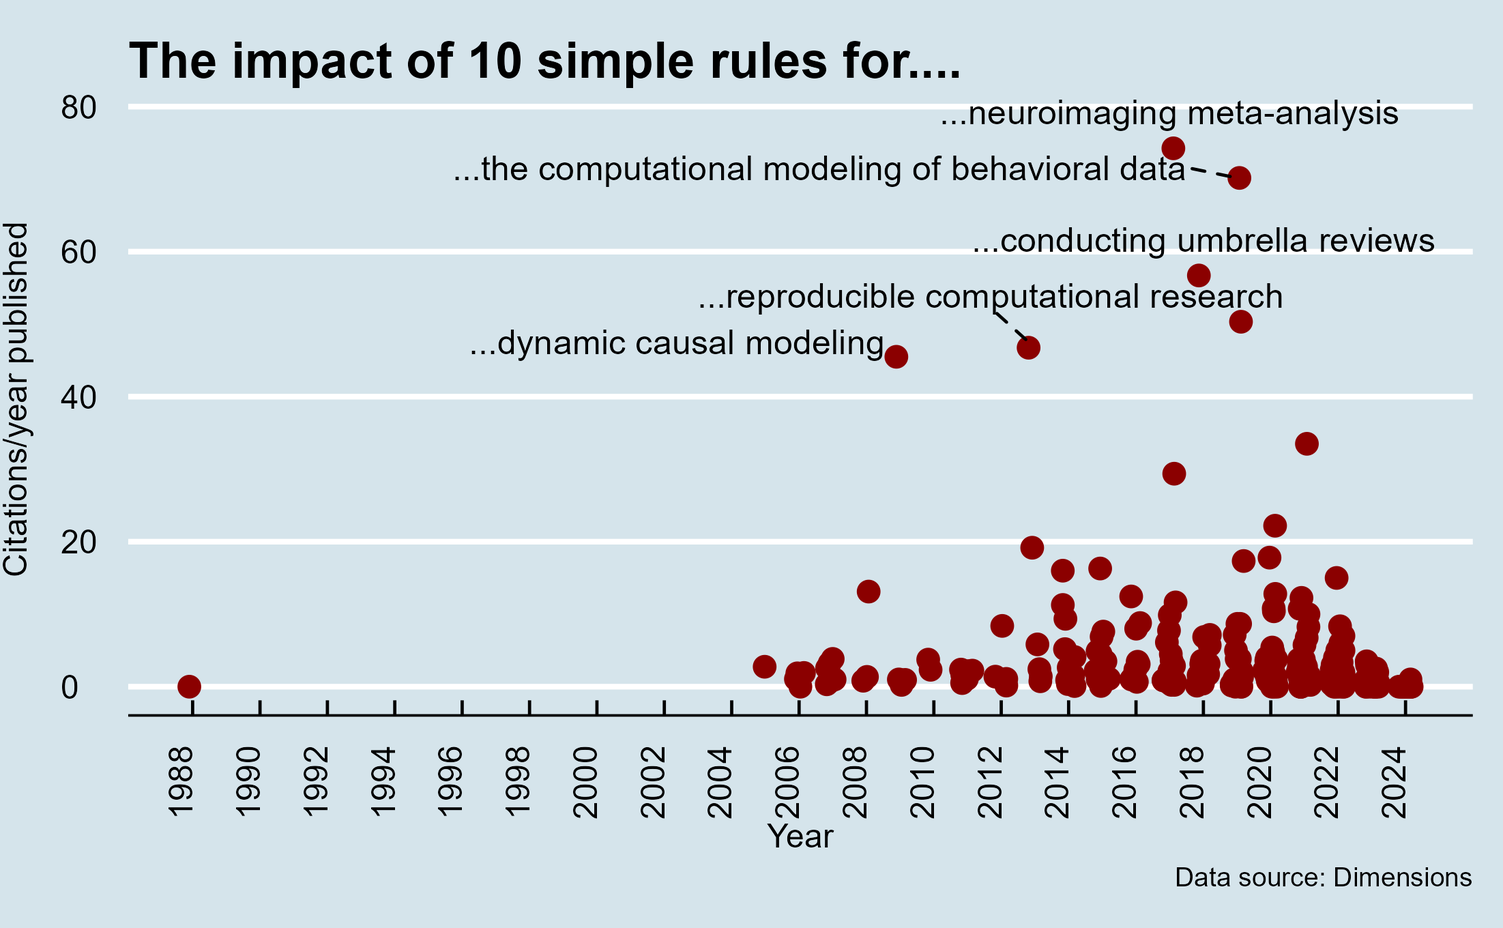
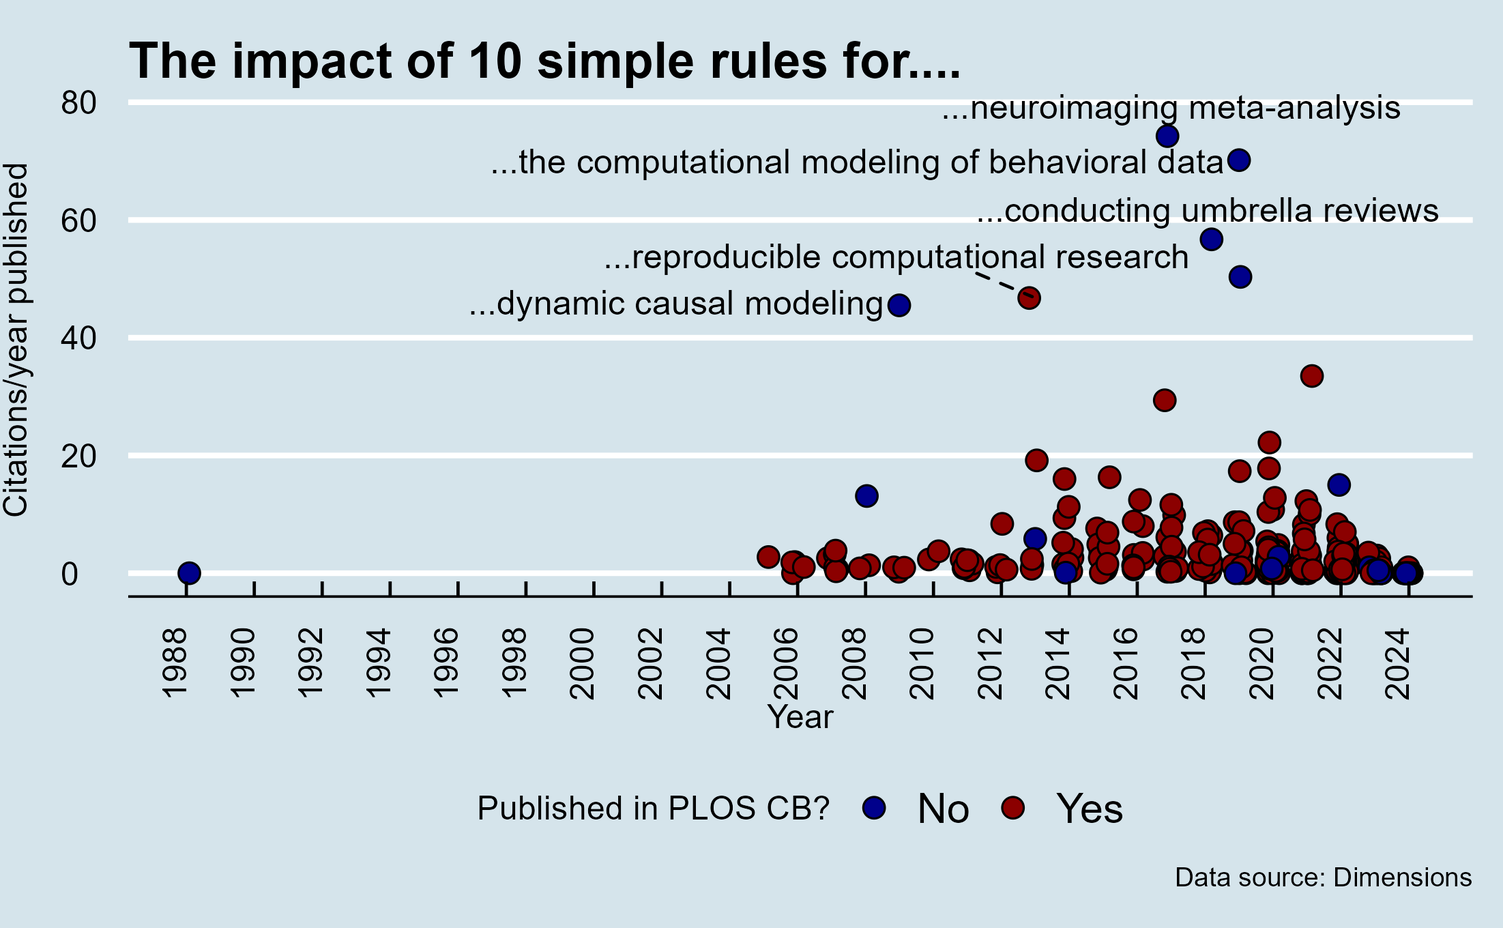
draft update

diff --git a/docs/posts/02_09_24/index.html b/docs/posts/02_09_24/index.html
@@ -7,7 +7,7 @@
 <meta name="viewport" content="width=device-width, initial-scale=1.0, user-scalable=yes">
 
 <meta name="author" content="Pablo Gómez Barreiro">
-<meta name="dcterms.date" content="2024-09-03">
+<meta name="dcterms.date" content="2024-09-02">
 
 <title>Pablo Gómez Barreiro - The golden era of Ten simple rules articles</title>
 <style>
@@ -207,7 +207,7 @@ pre > code.sourceCode > span > a:first-child::before { text-decoration: underlin
     <div>
     <div class="quarto-title-meta-heading">Published</div>
     <div class="quarto-title-meta-contents">
-      <p class="date">September 3, 2024</p>
+      <p class="date">September 2, 2024</p>
     </div>
   </div>
   
@@ -242,7 +242,7 @@ pre > code.sourceCode > span > a:first-child::before { text-decoration: underlin
 <div class="no-row-height column-margin column-container"><div class="">
 <div class="quarto-figure quarto-figure-center">
 <figure class="figure">
-<p><img src="wfrr.jpg" class="img-fluid figure-img"></p>
+<p><img src="wfrr.jpg" class="img-fluid figure-img" alt="Screenshot from the 1988 movie Who framed roger rabbit?"></p>
 <figcaption class="figure-caption">For temporal context, the movie <em>Who framed roger rabbit?</em> was also published in 1988</figcaption>
 </figure>
 </div>
@@ -267,7 +267,7 @@ pre > code.sourceCode > span > a:first-child::before { text-decoration: underlin
 <div class="no-row-height column-margin column-container"><div class="">
 <div class="quarto-figure quarto-figure-center">
 <figure class="figure">
-<p><a href="https://link.springer.com/chapter/10.1007/978-3-031-48044-7_32"><img src="clickbait.PNG" class="img-fluid figure-img" alt="For temporal context, Who framed roger rabbit? was also published in 1988"></a></p>
+<p><a href="https://link.springer.com/chapter/10.1007/978-3-031-48044-7_32"><img src="clickbait.PNG" class="img-fluid figure-img" alt="Screen caption of the paper titled The association between academia clickbait and impact"></a></p>
 <figcaption class="figure-caption">Clickbait titles in academia are on the rise, but this is not necessarily correlated with an increase of citations</figcaption>
 </figure>
 </div>
@@ -288,8 +288,8 @@ pre > code.sourceCode > span > a:first-child::before { text-decoration: underlin
 <span id="cb3-12"><a href="#cb3-12" aria-hidden="true" tabindex="-1"></a>        <span class="at">axis.text.x =</span> <span class="fu">element_text</span>(<span class="at">angle=</span><span class="dv">90</span>))</span></code><button title="Copy to Clipboard" class="code-copy-button"><i class="bi"></i></button></pre></div>
 </details>
 </div>
-<p><img src="plot1.png" class="img-fluid"></p>
-<p>a lot! About 500 of “10 simple rules” papers. That means in the scientific literature there are at least 5000 simple rules!</p>
+<p><img src="plot1.png" class="img-fluid" alt="A histogram showing the number of articles with ten simple rules in its title over time."></p>
+<p>a lot! About 300 of “10 simple rules” papers. That means in the scientific literature there are at least 3000 simple rules!</p>
 <p>My next question was, “Where are all these articles being published?” When I saw the answer, my first thought was that I must have made an embarrassing mistake during data cleaning or miswritten something in the code. But nope, the data was correct—papers titled <em>Ten Simple Rules</em> have a clear and distinct origin.</p>
 <div class="cell">
 <details>
@@ -308,8 +308,8 @@ pre > code.sourceCode > span > a:first-child::before { text-decoration: underlin
 <span id="cb4-12"><a href="#cb4-12" aria-hidden="true" tabindex="-1"></a>        <span class="at">axis.title.y =</span> <span class="fu">element_text</span>(<span class="at">vjust =</span> <span class="dv">5</span>))</span></code><button title="Copy to Clipboard" class="code-copy-button"><i class="bi"></i></button></pre></div>
 </details>
 </div>
-<p><img src="plot2.png" class="img-fluid"></p>
-<p>The large majority of these papers are coming from <em>PLOS Computational Biology</em>, and of course it’s no coincidence that their Editor-in-Chief published the first modern ‘Ten Simple Rules’ paper back in 2005. Digging a bit further on Dimensions authorship data shows Philip is the king of simple rules.</p>
+<p><img src="plot2.png" class="img-fluid" alt="A graph showing the journal PLOS Computational Biology has published the large majority of articles with the words &quot;ten simple rules&quot; in its title"></p>
+<p>The large majority of these papers are coming from <em>PLOS Computational Biology</em>, and of course it’s no coincidence that their Editor-in-Chief published the first modern <em>Ten Simple Rules</em> paper back in 2005. This became a series, with him leading the list of authors who had articles published in it.</p>
 <div class="cell">
 <details>
 <summary>Show the code</summary>
@@ -331,9 +331,8 @@ pre > code.sourceCode > span > a:first-child::before { text-decoration: underlin
 5 De Las Rivas, Javier     4</code></pre>
 </div>
 </div>
-<p>PLOS Computational Biology APC is currently at $2926, meaning each rule comes at a cost of $296, and the entire series must have brought some serious money to the journal (APC changes overtime, but I´m estimating &gt;$600k - assuming the series is treated as regular submissions.)</p>
 </section>
-<section id="the-impact-of-10-simple-rules-for" class="level3">
+<section id="the-impact-of-10-simple-rules-for" class="level3 page-columns page-full">
 <h3 class="anchored" data-anchor-id="the-impact-of-10-simple-rules-for">The impact of 10 simple rules for</h3>
 <p>Dimensions data also includes article citation numbers. To assess the impact of these papers over time, I decided to track the number of citations they accumulate each year, adding 1 to avoid dividing by zero for articles published in 2024.</p>
 <div class="cell">
@@ -342,41 +341,77 @@ pre > code.sourceCode > span > a:first-child::before { text-decoration: underlin
 <div class="sourceCode cell-code" id="cb7"><pre class="sourceCode r code-with-copy"><code class="sourceCode r"><span id="cb7-1"><a href="#cb7-1" aria-hidden="true" tabindex="-1"></a><span class="fu">library</span>(ggrepel)</span>
 <span id="cb7-2"><a href="#cb7-2" aria-hidden="true" tabindex="-1"></a>clean_data<span class="sc">%&gt;%</span></span>
 <span id="cb7-3"><a href="#cb7-3" aria-hidden="true" tabindex="-1"></a>  <span class="fu">mutate</span>(<span class="at">years_publicated=</span><span class="dv">2024</span><span class="sc">-</span>PubYear<span class="sc">+</span><span class="dv">1</span>,</span>
-<span id="cb7-4"><a href="#cb7-4" aria-hidden="true" tabindex="-1"></a>         <span class="at">cit_per_year=</span><span class="st">`</span><span class="at">Times cited</span><span class="st">`</span><span class="sc">/</span>years_publicated)<span class="sc">%&gt;%</span></span>
-<span id="cb7-5"><a href="#cb7-5" aria-hidden="true" tabindex="-1"></a>  <span class="fu">ggplot</span>(<span class="fu">aes</span>(<span class="at">x=</span>PubYear,<span class="at">y=</span>cit_per_year))<span class="sc">+</span></span>
-<span id="cb7-6"><a href="#cb7-6" aria-hidden="true" tabindex="-1"></a>  <span class="fu">geom_jitter</span>(<span class="at">height=</span><span class="dv">0</span>,<span class="at">width =</span> .<span class="dv">2</span>,<span class="at">colour=</span><span class="st">"darkred"</span>,<span class="at">size=</span><span class="dv">3</span>)<span class="sc">+</span></span>
-<span id="cb7-7"><a href="#cb7-7" aria-hidden="true" tabindex="-1"></a>  <span class="fu">geom_text_repel</span>(<span class="at">data=</span>.<span class="sc">%&gt;%</span></span>
-<span id="cb7-8"><a href="#cb7-8" aria-hidden="true" tabindex="-1"></a>                    <span class="fu">filter</span>(cit_per_year<span class="sc">&gt;</span><span class="dv">40</span>)<span class="sc">%&gt;%</span></span>
-<span id="cb7-9"><a href="#cb7-9" aria-hidden="true" tabindex="-1"></a>                    <span class="fu">mutate</span>(<span class="at">Title=</span><span class="fu">gsub</span>(<span class="st">"ten simple rules for "</span>,<span class="st">"..."</span>,<span class="fu">tolower</span>(Title))),</span>
-<span id="cb7-10"><a href="#cb7-10" aria-hidden="true" tabindex="-1"></a>                  <span class="fu">aes</span>(<span class="at">label=</span>Title,<span class="at">y=</span>cit_per_year),</span>
-<span id="cb7-11"><a href="#cb7-11" aria-hidden="true" tabindex="-1"></a>                  <span class="at">nudge_y=</span><span class="dv">5</span>,</span>
-<span id="cb7-12"><a href="#cb7-12" aria-hidden="true" tabindex="-1"></a>                  <span class="at">force=</span><span class="dv">1</span>,</span>
-<span id="cb7-13"><a href="#cb7-13" aria-hidden="true" tabindex="-1"></a>                  <span class="at">max.overlaps=</span><span class="dv">3</span>,</span>
-<span id="cb7-14"><a href="#cb7-14" aria-hidden="true" tabindex="-1"></a>                  <span class="at">direction=</span><span class="st">"both"</span>,</span>
-<span id="cb7-15"><a href="#cb7-15" aria-hidden="true" tabindex="-1"></a>                  <span class="at">size=</span><span class="dv">4</span>,</span>
-<span id="cb7-16"><a href="#cb7-16" aria-hidden="true" tabindex="-1"></a>                  <span class="at">segment.linetype =</span> <span class="dv">2</span></span>
-<span id="cb7-17"><a href="#cb7-17" aria-hidden="true" tabindex="-1"></a>                  )<span class="sc">+</span></span>
-<span id="cb7-18"><a href="#cb7-18" aria-hidden="true" tabindex="-1"></a>  <span class="fu">scale_x_continuous</span>(<span class="at">breaks =</span> <span class="fu">seq</span>(<span class="dv">1988</span>,<span class="dv">2024</span>,<span class="dv">2</span>))<span class="sc">+</span></span>
-<span id="cb7-19"><a href="#cb7-19" aria-hidden="true" tabindex="-1"></a>  <span class="fu">labs</span>(<span class="at">title =</span> <span class="st">"The impact of 10 simple rules for...."</span>, <span class="at">y=</span><span class="st">"Citations/year published"</span>,<span class="at">x=</span><span class="st">"Year"</span>,<span class="at">caption =</span> <span class="st">"Data source: Dimensions"</span>)<span class="sc">+</span></span>
-<span id="cb7-20"><a href="#cb7-20" aria-hidden="true" tabindex="-1"></a>  <span class="fu">theme_economist</span>()<span class="sc">+</span></span>
-<span id="cb7-21"><a href="#cb7-21" aria-hidden="true" tabindex="-1"></a>  <span class="fu">theme</span>(<span class="at">axis.text.y =</span> <span class="fu">element_text</span>(<span class="at">hjust =</span> <span class="dv">0</span>),</span>
-<span id="cb7-22"><a href="#cb7-22" aria-hidden="true" tabindex="-1"></a>        <span class="at">axis.title.y =</span> <span class="fu">element_text</span>(<span class="at">vjust =</span> <span class="dv">5</span>),</span>
-<span id="cb7-23"><a href="#cb7-23" aria-hidden="true" tabindex="-1"></a>        <span class="at">axis.text.x =</span> <span class="fu">element_text</span>(<span class="at">angle=</span><span class="dv">90</span>))</span>
-<span id="cb7-24"><a href="#cb7-24" aria-hidden="true" tabindex="-1"></a></span>
-<span id="cb7-25"><a href="#cb7-25" aria-hidden="true" tabindex="-1"></a><span class="fu">ggsave</span>(<span class="st">"plot3.png"</span>,<span class="at">dpi=</span><span class="st">"retina"</span>)</span></code><button title="Copy to Clipboard" class="code-copy-button"><i class="bi"></i></button></pre></div>
+<span id="cb7-4"><a href="#cb7-4" aria-hidden="true" tabindex="-1"></a>         <span class="at">cit_per_year=</span><span class="st">`</span><span class="at">Times cited</span><span class="st">`</span><span class="sc">/</span>years_publicated,</span>
+<span id="cb7-5"><a href="#cb7-5" aria-hidden="true" tabindex="-1"></a>         <span class="at">iscompbio=</span><span class="fu">ifelse</span>(<span class="st">`</span><span class="at">Source title</span><span class="st">`</span><span class="sc">==</span><span class="st">"PLOS Computational Biology"</span>,<span class="st">"Yes"</span>,<span class="st">"No"</span>))<span class="sc">%&gt;%</span></span>
+<span id="cb7-6"><a href="#cb7-6" aria-hidden="true" tabindex="-1"></a>  <span class="fu">ggplot</span>(<span class="fu">aes</span>(<span class="at">x=</span>PubYear,<span class="at">y=</span>cit_per_year,<span class="at">fill=</span>iscompbio))<span class="sc">+</span></span>
+<span id="cb7-7"><a href="#cb7-7" aria-hidden="true" tabindex="-1"></a>  <span class="fu">scale_fill_manual</span>(<span class="at">values =</span> <span class="fu">c</span>(<span class="st">"darkblue"</span>,<span class="st">"darkred"</span>))<span class="sc">+</span></span>
+<span id="cb7-8"><a href="#cb7-8" aria-hidden="true" tabindex="-1"></a>  <span class="fu">geom_jitter</span>(<span class="at">height=</span><span class="dv">0</span>,<span class="at">width =</span> .<span class="dv">2</span>,<span class="at">colour=</span><span class="st">"black"</span>,<span class="at">size=</span><span class="dv">3</span>,<span class="at">shape=</span><span class="dv">21</span>)<span class="sc">+</span></span>
+<span id="cb7-9"><a href="#cb7-9" aria-hidden="true" tabindex="-1"></a>  <span class="fu">geom_text_repel</span>(<span class="at">data=</span>.<span class="sc">%&gt;%</span></span>
+<span id="cb7-10"><a href="#cb7-10" aria-hidden="true" tabindex="-1"></a>                    <span class="fu">filter</span>(cit_per_year<span class="sc">&gt;</span><span class="dv">40</span>)<span class="sc">%&gt;%</span></span>
+<span id="cb7-11"><a href="#cb7-11" aria-hidden="true" tabindex="-1"></a>                    <span class="fu">mutate</span>(<span class="at">Title=</span><span class="fu">gsub</span>(<span class="st">"ten simple rules for "</span>,<span class="st">"..."</span>,<span class="fu">tolower</span>(Title))),</span>
+<span id="cb7-12"><a href="#cb7-12" aria-hidden="true" tabindex="-1"></a>                  <span class="fu">aes</span>(<span class="at">label=</span>Title,<span class="at">y=</span>cit_per_year),</span>
+<span id="cb7-13"><a href="#cb7-13" aria-hidden="true" tabindex="-1"></a>                  <span class="at">nudge_y=</span><span class="dv">5</span>,</span>
+<span id="cb7-14"><a href="#cb7-14" aria-hidden="true" tabindex="-1"></a>                  <span class="at">force=</span><span class="dv">2</span>,</span>
+<span id="cb7-15"><a href="#cb7-15" aria-hidden="true" tabindex="-1"></a>                  <span class="at">max.overlaps=</span><span class="dv">3</span>,</span>
+<span id="cb7-16"><a href="#cb7-16" aria-hidden="true" tabindex="-1"></a>                  <span class="at">direction=</span><span class="st">"both"</span>,</span>
+<span id="cb7-17"><a href="#cb7-17" aria-hidden="true" tabindex="-1"></a>                  <span class="at">size=</span><span class="dv">4</span>,</span>
+<span id="cb7-18"><a href="#cb7-18" aria-hidden="true" tabindex="-1"></a>                  <span class="at">segment.linetype =</span> <span class="dv">2</span></span>
+<span id="cb7-19"><a href="#cb7-19" aria-hidden="true" tabindex="-1"></a>                  )<span class="sc">+</span></span>
+<span id="cb7-20"><a href="#cb7-20" aria-hidden="true" tabindex="-1"></a>  <span class="fu">scale_x_continuous</span>(<span class="at">breaks =</span> <span class="fu">seq</span>(<span class="dv">1988</span>,<span class="dv">2024</span>,<span class="dv">2</span>))<span class="sc">+</span></span>
+<span id="cb7-21"><a href="#cb7-21" aria-hidden="true" tabindex="-1"></a>  <span class="fu">labs</span>(<span class="at">title =</span> <span class="st">"The impact of 10 simple rules for...."</span>, <span class="at">y=</span><span class="st">"Citations/year published"</span>,<span class="at">x=</span><span class="st">"Year"</span>,<span class="at">caption =</span> <span class="st">"Data source: Dimensions"</span>,<span class="at">fill=</span><span class="st">"Published in PLOS CB?"</span>)<span class="sc">+</span></span>
+<span id="cb7-22"><a href="#cb7-22" aria-hidden="true" tabindex="-1"></a>  <span class="fu">theme_economist</span>()<span class="sc">+</span></span>
+<span id="cb7-23"><a href="#cb7-23" aria-hidden="true" tabindex="-1"></a>  <span class="fu">theme</span>(<span class="at">axis.text.y =</span> <span class="fu">element_text</span>(<span class="at">hjust =</span> <span class="dv">0</span>),</span>
+<span id="cb7-24"><a href="#cb7-24" aria-hidden="true" tabindex="-1"></a>        <span class="at">axis.title.y =</span> <span class="fu">element_text</span>(<span class="at">vjust =</span> <span class="dv">5</span>),</span>
+<span id="cb7-25"><a href="#cb7-25" aria-hidden="true" tabindex="-1"></a>        <span class="at">axis.text.x =</span> <span class="fu">element_text</span>(<span class="at">angle=</span><span class="dv">90</span>),</span>
+<span id="cb7-26"><a href="#cb7-26" aria-hidden="true" tabindex="-1"></a>        <span class="at">legend.position =</span> <span class="st">"bottom"</span>)</span></code><button title="Copy to Clipboard" class="code-copy-button"><i class="bi"></i></button></pre></div>
 </details>
 </div>
-<p><img src="plot3.png" class="img-fluid"></p>
+<p><img src="plot3.png" class="img-fluid" alt="A graph with the number of citations accumulated per year against year published of papers with 10 simple rules in its title. The graph makes a distinction between articles published or not at PLOS"></p>
+<p><img src="plot3.png" class="img-fluid" alt="A graph with the number of citations accumulated per year against year published of papers with 10 simple rules in its title"></p>
+
+<div class="no-row-height column-margin column-container"><div class="">
+<p><a href="https://www.sciencedirect.com/science/article/pii/S0149763417303111">Ten simple rules for neuroimaging meta-analysis</a> | Elsevier</p>
+<p><br></p>
+<p><a href="https://elifesciences.org/articles/49547">Ten simple rules for the computational modeling of behavioral data</a> | eLife</p>
+<p><br></p>
+<p><a href="https://mentalhealth.bmj.com/content/21/3/95">Ten simple rules for conducting umbrella reviews</a> | BMJ</p>
+<p><br></p>
+<p><a href="https://journals.plos.org/ploscompbiol/article?id=10.1371/journal.pcbi.1003285">Ten Simple Rules for Reproducible Computational Research</a> | PLOS</p>
+<p><br></p>
+<p><a href="https://www.sciencedirect.com/science/article/pii/S1053811909011999">Ten simple rules for dynamic causal modeling</a> | Elsevier</p>
+</div></div><p>For good measurement I am also going to plot articles vs total citations</p>
+<div class="cell">
+<details>
+<summary>Show the code</summary>
+<div class="sourceCode cell-code" id="cb8"><pre class="sourceCode r code-with-copy"><code class="sourceCode r"><span id="cb8-1"><a href="#cb8-1" aria-hidden="true" tabindex="-1"></a>clean_data<span class="sc">%&gt;%</span> </span>
+<span id="cb8-2"><a href="#cb8-2" aria-hidden="true" tabindex="-1"></a>  <span class="fu">ggplot</span>(<span class="fu">aes</span>(<span class="at">x=</span><span class="st">`</span><span class="at">Times cited</span><span class="st">`</span>))<span class="sc">+</span></span>
+<span id="cb8-3"><a href="#cb8-3" aria-hidden="true" tabindex="-1"></a>  <span class="fu">geom_histogram</span>(<span class="at">colour=</span><span class="st">"black"</span>,<span class="at">fill=</span><span class="st">"darkred"</span>,<span class="at">binwidth =</span> <span class="dv">10</span>)<span class="sc">+</span></span>
+<span id="cb8-4"><a href="#cb8-4" aria-hidden="true" tabindex="-1"></a>  <span class="fu">labs</span>(<span class="at">title =</span> <span class="st">"The impact of 10 simple rules for...."</span>, <span class="at">y=</span><span class="st">"Number of articles"</span>,<span class="at">x=</span><span class="st">"Total citations"</span>,<span class="at">caption =</span> <span class="st">"Data source: Dimensions"</span>)<span class="sc">+</span></span>
+<span id="cb8-5"><a href="#cb8-5" aria-hidden="true" tabindex="-1"></a>  <span class="fu">theme_economist</span>()<span class="sc">+</span></span>
+<span id="cb8-6"><a href="#cb8-6" aria-hidden="true" tabindex="-1"></a>  <span class="fu">theme</span>(<span class="at">axis.text.y =</span> <span class="fu">element_text</span>(<span class="at">hjust =</span> <span class="dv">0</span>),</span>
+<span id="cb8-7"><a href="#cb8-7" aria-hidden="true" tabindex="-1"></a>        <span class="at">axis.title.y =</span> <span class="fu">element_text</span>(<span class="at">vjust =</span> <span class="dv">5</span>),</span>
+<span id="cb8-8"><a href="#cb8-8" aria-hidden="true" tabindex="-1"></a>        <span class="at">axis.text.x =</span> <span class="fu">element_text</span>(<span class="at">angle=</span><span class="dv">90</span>))</span></code><button title="Copy to Clipboard" class="code-copy-button"><i class="bi"></i></button></pre></div>
+</details>
+</div>
+<div class="quarto-figure quarto-figure-center">
+<figure class="figure">
+<p><img src="plot4.png" class="img-fluid figure-img"></p>
+<figcaption class="figure-caption">Histogram showing most articles with ten simple rules in the title are in the low spectrum of number of citations</figcaption>
+</figure>
+</div>
+<p>Despite PLOS having the large majority of <em>ten simple rules</em> articles, the more impactful ones (citation wise) were published at different publishers. However, in general the majority of articles remain on the lower end of the citation spectrum, including some newer articles that may not have yet achieved their breakthrough.</p>
 <p>At this point, I decided to turn to the internet for some additional clues into PLOS and its “Ten Simple Rules” series, just to discover my findings were not particularly novel.</p>
-<p><a href="https://x.com/StephenBHeard">Stephen Heard</a> had already commented on this trend on his <a href="https://scientistseessquirrel.wordpress.com/2023/10/31/10-simple-rules-for-writing-10-simple-rules-papers/">blog</a> less than a year ago. Along with a quality parody of this trending genre of papers, his blog ends up highlighting the epitome article of the <em>Ten simple rules</em>… series: <a href="https://journals.plos.org/ploscompbiol/article?id=10.1371/journal.pcbi.1003858">Ten Simple Rules for Writing a PLOS Ten Simple Rules Article</a>. Published back in 2014, the article is still a fun read with some interesting data on the series. Back then Philip E. Bourne was present in almost half of the papers on the series.</p>
+<p><a href="https://x.com/StephenBHeard">Stephen Heard</a> had already commented on this trend on his <a href="https://scientistseessquirrel.wordpress.com/2023/10/31/10-simple-rules-for-writing-10-simple-rules-papers/">blog</a> less than a year ago. Along with a quality parody of this trending genre of papers, his blog ends up highlighting the epitome article of the <em>Ten simple rules</em>… series: <a href="https://journals.plos.org/ploscompbiol/article?id=10.1371/journal.pcbi.1003858">Ten Simple Rules for Writing a PLOS Ten Simple Rules Article</a>. Published back in 2014, the article is still a fun read with some interesting data on the series. Back then, Philip E. Bourne was present in almost half of the papers on the series.</p>
 <div class="quarto-figure quarto-figure-center">
 <figure class="figure">
 <p><img src="pcbi.1003858.g002.png" class="img-fluid figure-img"></p>
 <figcaption class="figure-caption">2014 Pie chart from PLOS article shows Philip E. Bourne presence in the series</figcaption>
 </figure>
 </div>
-<p>Later, in 2018, Philip E. Bourne would then went into publishing <a href="https://journals.plos.org/ploscompbiol/article?id=10.1371/journal.pcbi.1006670">One thousand simple rules</a>. The paper ends rising some interesting questions about the series, its novelty and the future of science dissemination.</p>
-<p>But here we are in 2024, and the series is still going strong, delivering ten rules at a time (several times a year).</p>
+</section>
+<section id="the-future-of-the-ten-simple-rules-series" class="level3">
+<h3 class="anchored" data-anchor-id="the-future-of-the-ten-simple-rules-series">The future of the <em>ten simple rules</em> series</h3>
+<p>Later, in 2018, Philip E. Bourne would then went into publishing <a href="https://journals.plos.org/ploscompbiol/article?id=10.1371/journal.pcbi.1006670">One thousand simple rules</a>. The paper ends rising some interesting questions about the series, its novelty and the future of science dissemination. This article goes as far as questioning of whether these articles might be better suited as blogs. But here we are in 2024, and the series is still going strong. With the current PLOS article processing chargess, each published rule cost authors approximately $296, perhaps an extra factor to reconsider the long term viability of the series in its current format. At glance, some articles in the series seem to offer basic guidelines and common sense, with a wide range of tones in them (From <a href="https://journals.plos.org/ploscompbiol/article?id=10.1371/journal.pcbi.1004084">Ten simple rules to win a Nobel prize</a> to <a href="https://journals.plos.org/ploscompbiol/article?id=10.1371/journal.pcbi.1009957">Ten simple rules to ruin a collaborative environment</a>). In 2023, the number of articles published in the series was halved compared to 2022, although the 2024 “harvest” is on track to match 2023’s output. As 2025 marks the 20th anniversary of the “Ten Simple Rules” series, will PLOS plan a special edition to celebrate the milestone?</p>
 <div class="callout callout-style-default callout-note callout-titled">
 <div class="callout-header d-flex align-content-center">
 <div class="callout-icon-container">
